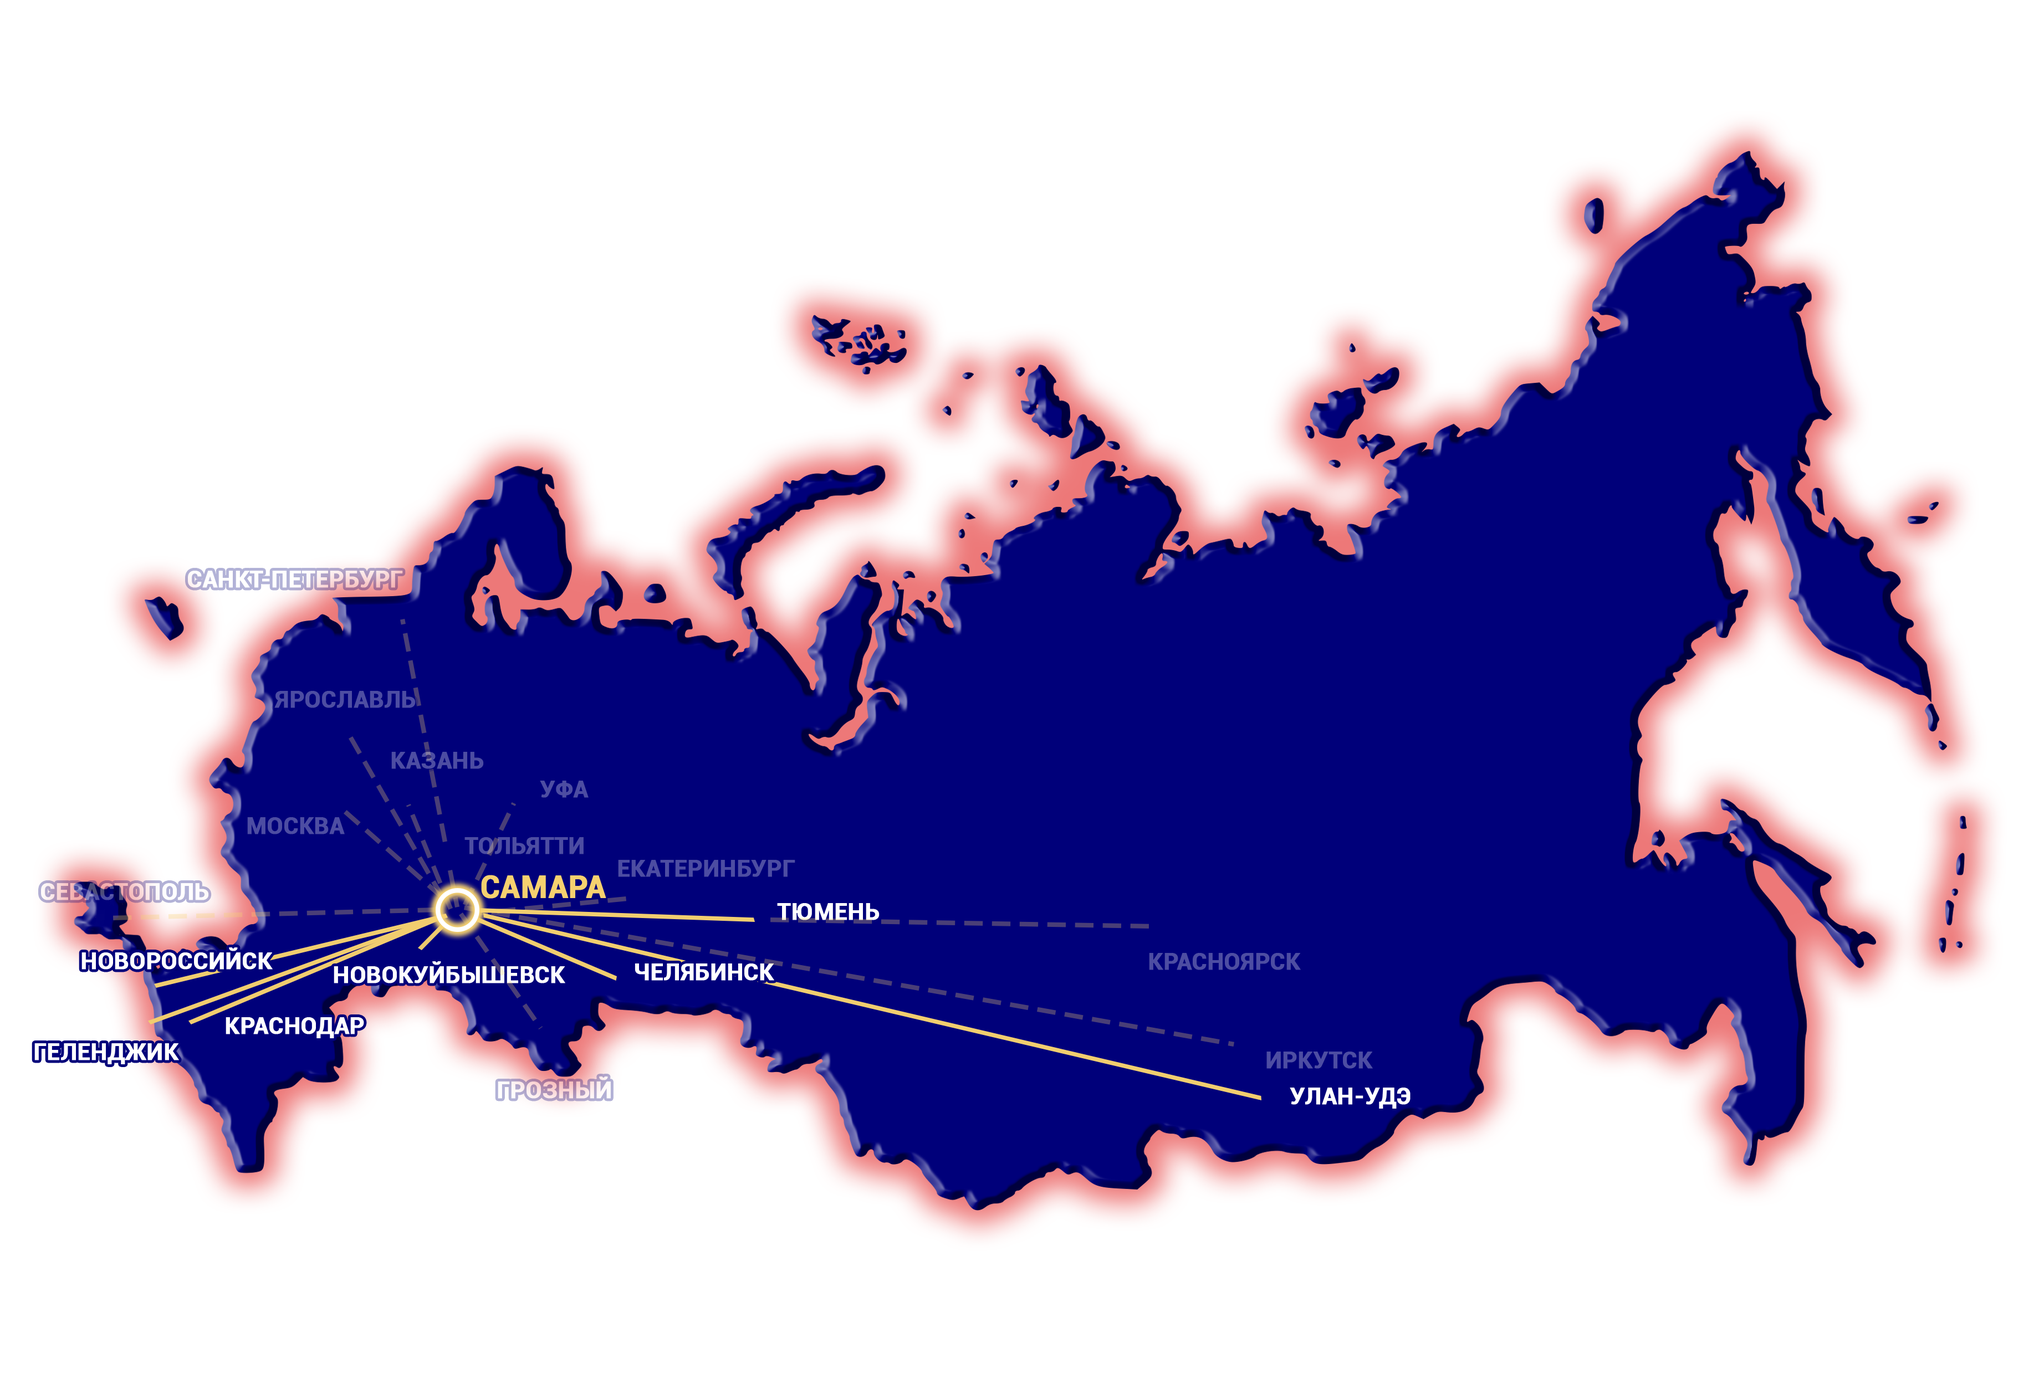
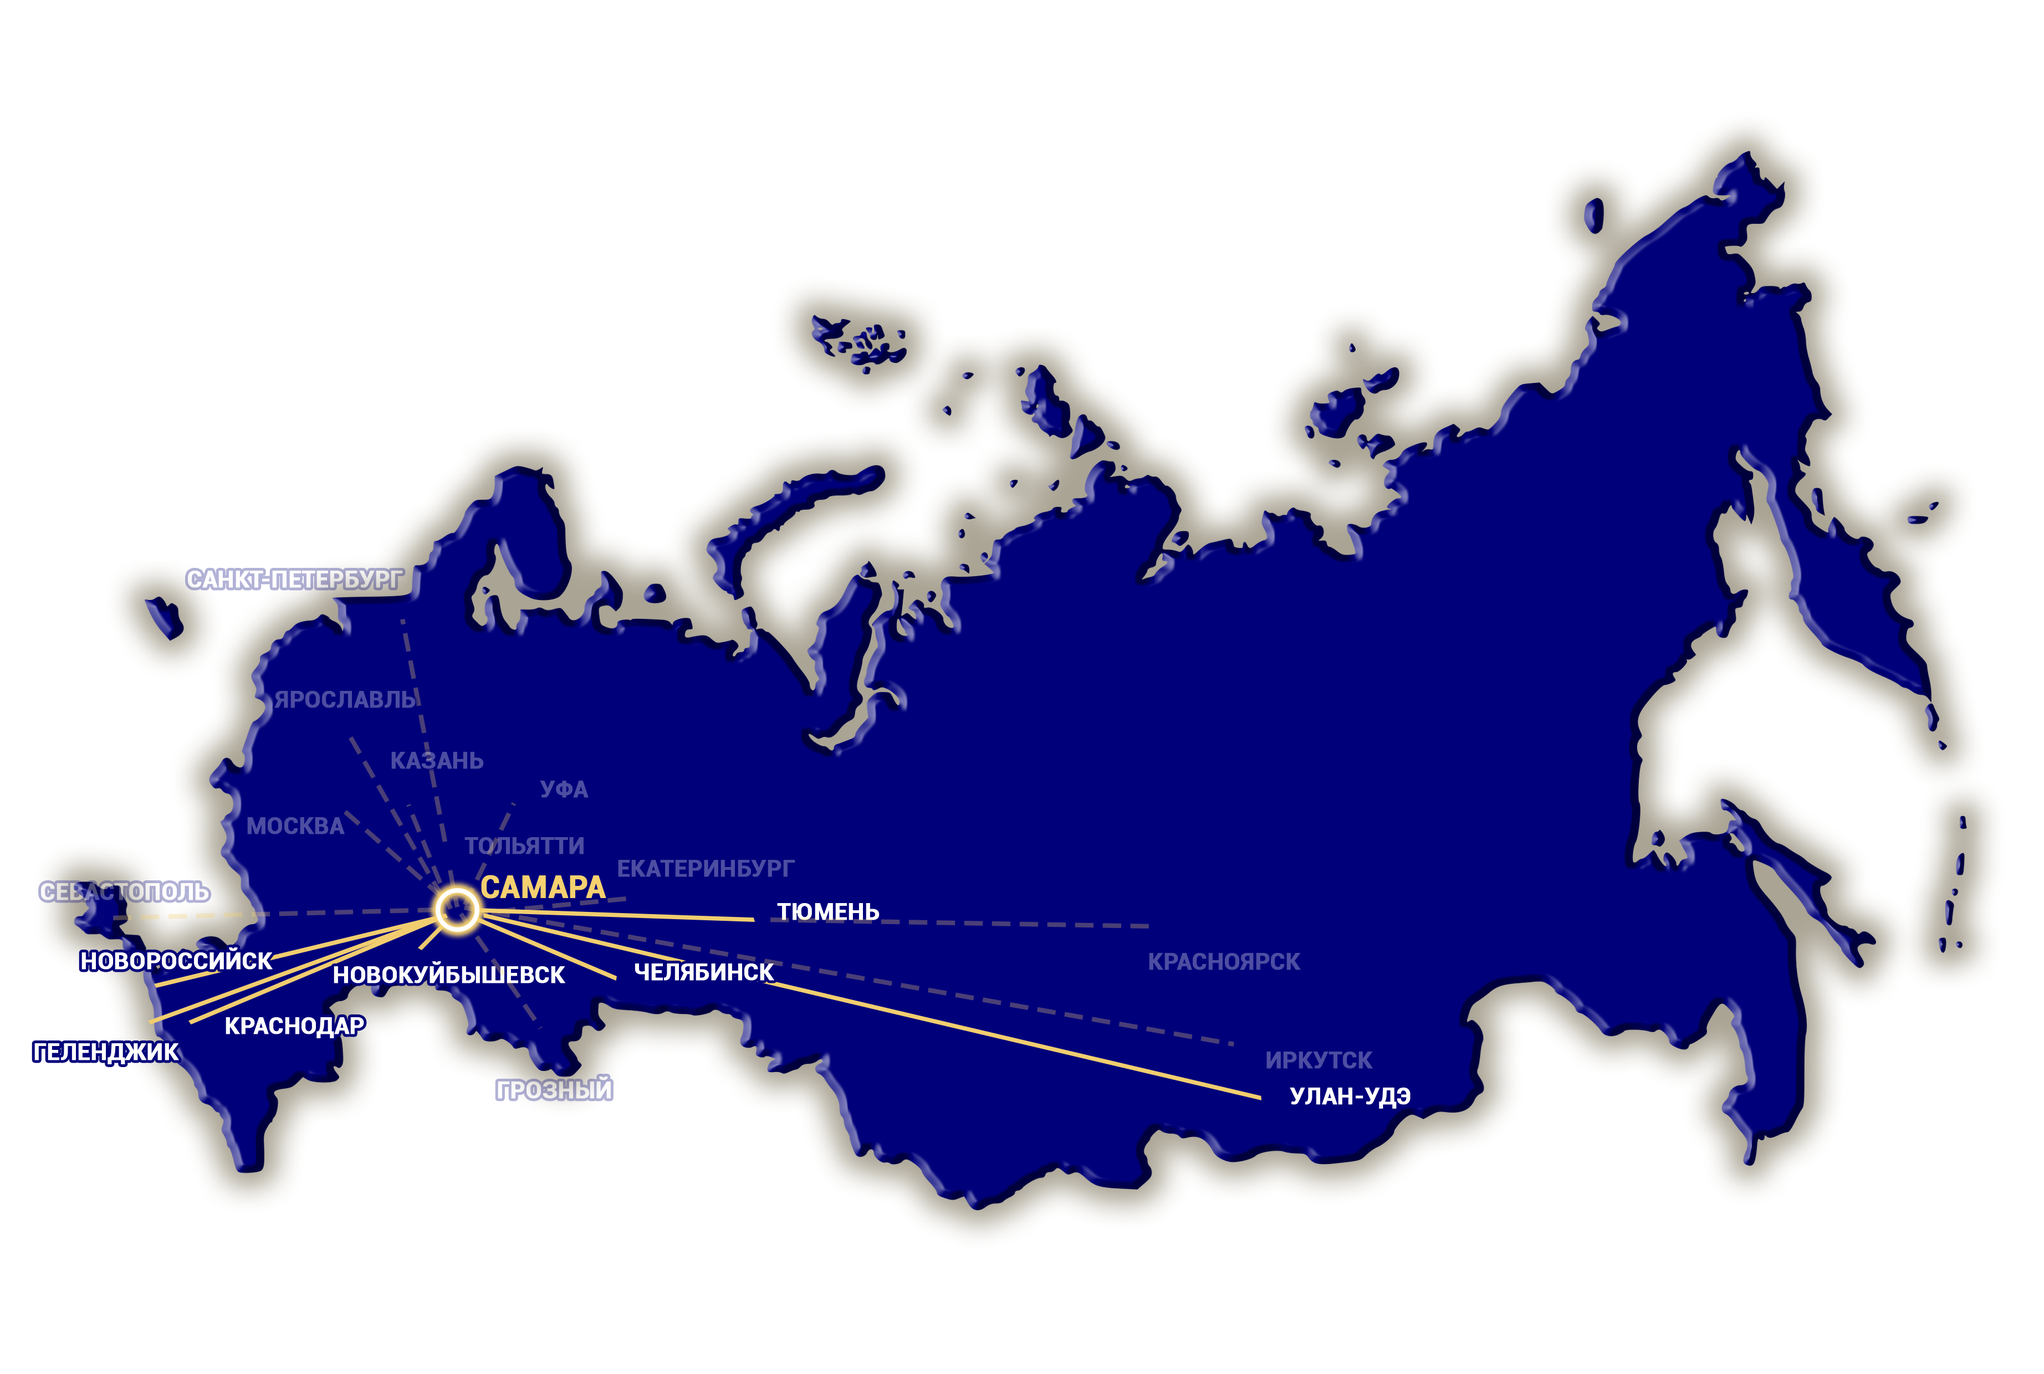
ы

Changed region(s): [[0.0312, 0.0931, 0.9666, 0.8073], [0.4054, 0.4657, 0.9978, 0.9004], [0.0935, 0.7141, 0.4054, 0.8694]]

diff --git a/karta/css/style.min.css b/karta/css/style.min.css
@@ -1,1 +1,1 @@
-*{margin:0;padding:0;-webkit-tap-highlight-color:rgba(0,0,0,0)}.karta,.karta2{margin:0 auto;background:url(../img/Карта1.png);height:500px;position:relative;width:800px;background-repeat:no-repeat;background-position:center;background-size:100%}.karta2__active,.karta__active{width:6px;position:absolute;height:6px;border-radius:50%;border:1px solid #dabd6d;box-shadow:0 0 2px 2px #dabd6d;cursor:pointer;-webkit-animation:boxShadowPulse .9s infinite linear;animation:boxShadowPulse .9s infinite linear;animation-direction:alternate-reverse;background-color:#00007a}.karta2__not-active,.karta__not-active{width:6px;position:absolute;height:6px;border-radius:50%;border:1px solid #b5adf1;box-shadow:0 0 2px 2px #b3addf;background-color:#00007a;cursor:pointer}#tolyati{top:313px;left:21.3%}#tolyati:hover::before{-webkit-animation:pulse 1s;animation:pulse 1s;content:"";width:200px;position:absolute;top:-100px;left:10px;background-image:url(../img/Всплывашка_7.png);background-size:cover;height:100px;z-index:1}.pulse{top:333px;width:3px;position:absolute;height:3px;border-radius:50%;border:1px solid #dabd6d;background-color:#dabd6d;left:175.4px}#samara{top:333px;left:175.4px}#samara:hover::before{-webkit-animation:pulse 1s;animation:pulse 1s;content:"";width:200px;position:absolute;top:-100px;left:10px;z-index:1;background-image:url(../img/Всплывашка_1.png);background-size:cover;height:100px}#chelyabinsk{top:360px;left:236px}#chelyabinsk:hover::before{-webkit-animation:pulses 1s;animation:pulses 1s;content:"";width:210px;position:absolute;top:-100px;z-index:1;left:10px;background-image:url(../img/ВсплывашкаЧелябинск.png);background-size:cover;height:100px}#chelyabinsk:focus::before{-webkit-animation:pulse 1s;animation:pulse 1s;content:"";width:200px;z-index:1;position:absolute;top:-100px;left:10px;background-image:url(../img/Всплывашка_2.png);background-size:cover;height:100px}#newKub{top:348px;left:161px}#newKub:hover::before{-webkit-animation:pulses 1s;animation:pulses 1s;content:"";width:210px;position:absolute;z-index:1;top:-100px;left:10px;background-image:url(../img/ВсплывашкаНовокуйбышевск.png);background-size:cover;height:100px}#newKub:focus::before{-webkit-animation:pulse 1s;animation:pulse 1s;content:"";width:200px;z-index:1;position:absolute;top:-100px;left:10px;background-image:url(../img/Всплывашка_3.png);background-size:cover;height:100px}#newRos{top:363px;box-shadow:0 0 1px 2px #ffdb77;left:56px}#newRos:hover::before{-webkit-animation:pulse 1s;animation:pulse 1s;content:"";width:200px;z-index:1;position:absolute;top:-100px;left:10px;background-image:url(../img/Всплывашка_5.png);background-size:cover;height:100px}#newRos:focus::before{-webkit-animation:pulse 1s;animation:pulse 1s;content:"";width:200px;position:absolute;top:-100px;z-index:1;left:10px;background-image:url(../img/Всплывашка_5.png);background-size:cover;height:100px}#gelendgik{top:377px;box-shadow:0 0 1px 2px #ffdb77;left:55px}#gelendgik:hover::before{-webkit-animation:pulses 1s;animation:pulses 1s;content:"";width:210px;z-index:1;position:absolute;top:-100px;left:10px;background-image:url(../img/ВсплывашкаГеленджик.png);background-size:cover;height:100px}#gelendgik:focus::before{-webkit-animation:pulse 1s;animation:pulse 1s;content:"";width:200px;position:absolute;top:-100px;z-index:1;left:10px;background-image:url(../img/ВсплывашкаГеленджик.png);background-size:cover;height:100px}#krasnodar{top:376px;box-shadow:0 0 1px 2px #ffdb77;left:74px}#krasnodar:hover::before{-webkit-animation:pulses 1s;animation:pulses 1s;content:"";width:210px;position:absolute;z-index:1;top:-100px;left:10px;background-image:url(../img/ВсплывашкаКраснодар.png);background-size:cover;height:100px}#krasnodar:focus::before{-webkit-animation:pulse 1s;animation:pulse 1s;content:"";width:200px;position:absolute;top:-100px;z-index:1;left:10px;background-image:url(../img/ВсплывашкаКраснодар.png);background-size:cover;height:100px}#tumen{top:337px;left:292px}#tumen:hover::before{-webkit-animation:pulses 1s;animation:pulses 1s;content:"";width:210px;position:absolute;z-index:1;top:-100px;left:10px;background-image:url(../img/ВсплывашкаТюмень.png);background-size:cover;height:100px}#ulan{top:406px;left:491px}#ulan:hover::before{-webkit-animation:pulses 1s;animation:pulses 1s;content:"";width:210px;z-index:1;position:absolute;top:-100px;left:10px;background-image:url(../img/ВсплывашкаУлан-Удэ.png);background-size:cover;height:100px}#moscow{top:289px;left:126px}#moscow:hover::before{-webkit-animation:pulse 1s;animation:pulse 1s;content:"";z-index:1;width:200px;position:absolute;top:-100px;left:10px;background-image:url(../img/Всплывашка_6.png);background-size:cover;height:100px}#ekaterenburg{top:328px;left:249px}#ekaterenburg:hover::before{-webkit-animation:pulse 1s;animation:pulse 1s;content:"";width:200px;position:absolute;top:-100px;left:10px;background-image:url(../img/Всплывашка_7.png);background-size:cover;height:100px;z-index:1}#sevastopol{top:336px;left:30px}#sevastopol:hover::before{-webkit-animation:pulse 1s;animation:pulse 1s;content:"";width:200px;position:absolute;top:-100px;left:10px;background-image:url(../img/Всплывашка_7.png);background-size:cover;height:100px;z-index:1}#yaroslavl{top:261px;left:130px}#yaroslavl:hover::before{-webkit-animation:pulse 1s;animation:pulse 1s;content:"";width:200px;position:absolute;top:-100px;left:10px;background-image:url(../img/Всплывашка_7.png);background-size:cover;height:100px;z-index:1}#kazan{top:287px;left:153px}#kazan:hover::before{-webkit-animation:pulse 1s;animation:pulse 1s;content:"";width:200px;position:absolute;top:-100px;left:10px;background-image:url(../img/Всплывашка_7.png);background-size:cover;height:100px;z-index:1}#ufa{top:286px;left:199px}#ufa:hover::before{-webkit-animation:pulse 1s;animation:pulse 1s;content:"";width:200px;position:absolute;top:-100px;left:10px;background-image:url(../img/Всплывашка_7.png);background-size:cover;height:100px;z-index:1}#krasnoyarsk{top:339px;left:450px}#krasnoyarsk:hover::before{-webkit-animation:pulse 1s;animation:pulse 1s;content:"";width:200px;position:absolute;top:-100px;left:10px;background-image:url(../img/Всплывашка_7.png);background-size:cover;height:100px;z-index:1}#irkutsk{top:386px;left:483.5px}#irkutsk:hover::before{-webkit-animation:pulse 1s;animation:pulse 1s;content:"";width:200px;position:absolute;top:-100px;left:10px;background-image:url(../img/Всплывашка_7.png);background-size:cover;height:100px;z-index:1}#grosniy{top:385px;left:212px}#grosniy:hover::before{-webkit-animation:pulse 1s;animation:pulse 1s;content:"";width:200px;position:absolute;top:-100px;left:10px;background-image:url(../img/Всплывашка_7.png);background-size:cover;height:100px;z-index:1}#peterburg{top:214px;left:152px}#peterburg:hover::before{-webkit-animation:pulse 1s;animation:pulse 1s;content:"";width:200px;position:absolute;top:-100px;left:10px;background-image:url(../img/Всплывашка_7.png);background-size:cover;height:100px;z-index:1}@-webkit-keyframes pulse{0%{width:0}100%{width:200px}}@keyframes pulse{0%{width:0}100%{width:200px}}@-webkit-keyframes boxShadowPulse{0%{box-shadow:0 0 2px 2px #dabd6d}75%{box-shadow:0 0 2px 2px #dabd6d}100%{box-shadow:0 0 3px 5px #dabd6d}}@keyframes boxShadowPulse{0%{box-shadow:0 0 2px 2px #dabd6d}75%{box-shadow:0 0 2px 2px #dabd6d}100%{box-shadow:0 0 3px 5px #dabd6d}}
+*{margin:0;padding:0;-webkit-tap-highlight-color:rgba(0,0,0,0)}.karta,.karta2{margin:0 auto;background:url(../img/Карта1.png);height:500px;position:relative;width:800px;background-repeat:no-repeat;background-position:center;background-size:100%}.karta2__active,.karta__active{width:6px;position:absolute;height:6px;border-radius:50%;border:1px solid #dabd6d;box-shadow:0 0 2px 2px #dabd6d;cursor:pointer;-webkit-animation:boxShadowPulse .9s infinite linear;animation:boxShadowPulse .9s infinite linear;animation-direction:alternate-reverse;background-color:#00007a}.karta2__not-active,.karta__not-active{width:6px;position:absolute;height:6px;border-radius:50%;border:1px solid #b5adf1;box-shadow:0 0 2px 2px #b3addf;background-color:#00007a;cursor:pointer}#tolyati{top:313px;left:21.3%}#tolyati:hover::before{-webkit-animation:pulse 1s;animation:pulse 1s;content:"";width:200px;position:absolute;top:-100px;left:10px;background-image:url(../img/Всплывашка_7.png);background-size:cover;height:100px;z-index:1}.pulse{top:333px;width:3px;position:absolute;height:3px;border-radius:50%;border:1px solid #dabd6d;background-color:#dabd6d;left:175.4px}#samara{top:333px;left:175.4px}#samara:hover::before{-webkit-animation:pulse 1s;animation:pulse 1s;content:"";width:200px;position:absolute;top:-100px;left:10px;z-index:1;background-image:url(../img/Всплывашка_1.png);background-size:cover;height:100px}#chelyabinsk{top:360px;left:236px}#chelyabinsk:hover::before{-webkit-animation:pulses 1s;animation:pulses 1s;content:"";width:210px;position:absolute;top:-100px;z-index:1;left:10px;background-image:url(../img/ВсплывашкаЧелябинск.png);background-size:cover;height:100px}#chelyabinsk:focus::before{-webkit-animation:pulse 1s;animation:pulse 1s;content:"";width:200px;z-index:1;position:absolute;top:-100px;left:10px;background-image:url(../img/Всплывашка_2.png);background-size:cover;height:100px}#newKub{top:348px;left:161px}#newKub:hover::before{-webkit-animation:pulses 1s;animation:pulses 1s;content:"";width:210px;position:absolute;z-index:1;top:-100px;left:10px;background-image:url(../img/ВсплывашкаНовокуйбышевск.png);background-size:cover;height:100px}#newKub:focus::before{-webkit-animation:pulse 1s;animation:pulse 1s;content:"";width:200px;z-index:1;position:absolute;top:-100px;left:10px;background-image:url(../img/Всплывашка_3.png);background-size:cover;height:100px}#newRos{top:363px;box-shadow:0 0 1px 2px #ffdb77;left:56px}#newRos:hover::before{-webkit-animation:pulse 1s;animation:pulse 1s;content:"";width:200px;z-index:1;position:absolute;top:-100px;left:10px;background-image:url(../img/Всплывашка_5.png);background-size:cover;height:100px}#newRos:focus::before{-webkit-animation:pulse 1s;animation:pulse 1s;content:"";width:200px;position:absolute;top:-100px;z-index:1;left:10px;background-image:url(../img/Всплывашка_5.png);background-size:cover;height:100px}#gelendgik{top:377px;box-shadow:0 0 1px 2px #ffdb77;left:55px}#gelendgik:hover::before{-webkit-animation:pulses 1s;animation:pulses 1s;content:"";width:210px;z-index:1;position:absolute;top:-100px;left:10px;background-image:url(../img/ВсплывашкаГеленджик.png);background-size:cover;height:100px}#gelendgik:focus::before{-webkit-animation:pulse 1s;animation:pulse 1s;content:"";width:200px;position:absolute;top:-100px;z-index:1;left:10px;background-image:url(../img/ВсплывашкаГеленджик.png);background-size:cover;height:100px}#krasnodar{top:376px;box-shadow:0 0 1px 2px #ffdb77;left:74px}#krasnodar:hover::before{-webkit-animation:pulses 1s;animation:pulses 1s;content:"";width:210px;position:absolute;z-index:1;top:-100px;left:10px;background-image:url(../img/ВсплывашкаКраснодар.png);background-size:cover;height:100px}#krasnodar:focus::before{-webkit-animation:pulse 1s;animation:pulse 1s;content:"";width:200px;position:absolute;top:-100px;z-index:1;left:10px;background-image:url(../img/ВсплывашкаКраснодар.png);background-size:cover;height:100px}#tumen{top:337px;left:292px}#tumen:hover::before{-webkit-animation:pulses 1s;animation:pulses 1s;content:"";width:210px;position:absolute;z-index:1;top:-100px;left:10px;background-image:url(../img/Всплывашка_7.png);background-size:cover;height:100px}#ulan{top:406px;left:491px}#ulan:hover::before{-webkit-animation:pulse 1s;animation:pulse 1s;content:"";width:200px;position:absolute;top:-100px;left:10px;background-image:url(../img/Всплывашка_7.png);background-size:cover;height:100px;z-index:1}#moscow{top:289px;left:126px}#moscow:hover::before{-webkit-animation:pulse 1s;animation:pulse 1s;content:"";z-index:1;width:200px;position:absolute;top:-100px;left:10px;background-image:url(../img/Всплывашка_6.png);background-size:cover;height:100px}#ekaterenburg{top:328px;left:249px}#ekaterenburg:hover::before{-webkit-animation:pulse 1s;animation:pulse 1s;content:"";width:200px;position:absolute;top:-100px;left:10px;background-image:url(../img/Всплывашка_7.png);background-size:cover;height:100px;z-index:1}#sevastopol{top:336px;left:30px}#sevastopol:hover::before{-webkit-animation:pulse 1s;animation:pulse 1s;content:"";width:200px;position:absolute;top:-100px;left:10px;background-image:url(../img/Всплывашка_7.png);background-size:cover;height:100px;z-index:1}#yaroslavl{top:261px;left:130px}#yaroslavl:hover::before{-webkit-animation:pulse 1s;animation:pulse 1s;content:"";width:200px;position:absolute;top:-100px;left:10px;background-image:url(../img/Всплывашка_7.png);background-size:cover;height:100px;z-index:1}#kazan{top:287px;left:153px}#kazan:hover::before{-webkit-animation:pulse 1s;animation:pulse 1s;content:"";width:200px;position:absolute;top:-100px;left:10px;background-image:url(../img/Всплывашка_7.png);background-size:cover;height:100px;z-index:1}#ufa{top:286px;left:199px}#ufa:hover::before{-webkit-animation:pulse 1s;animation:pulse 1s;content:"";width:200px;position:absolute;top:-100px;left:10px;background-image:url(../img/Всплывашка_7.png);background-size:cover;height:100px;z-index:1}#krasnoyarsk{top:339px;left:450px}#krasnoyarsk:hover::before{-webkit-animation:pulse 1s;animation:pulse 1s;content:"";width:200px;position:absolute;top:-100px;left:10px;background-image:url(../img/Всплывашка_7.png);background-size:cover;height:100px;z-index:1}#irkutsk{top:386px;left:483.5px}#irkutsk:hover::before{-webkit-animation:pulse 1s;animation:pulse 1s;content:"";width:200px;position:absolute;top:-100px;left:10px;background-image:url(../img/Всплывашка_7.png);background-size:cover;height:100px;z-index:1}#grosniy{top:385px;left:212px}#grosniy:hover::before{-webkit-animation:pulse 1s;animation:pulse 1s;content:"";width:200px;position:absolute;top:-100px;left:10px;background-image:url(../img/Всплывашка_7.png);background-size:cover;height:100px;z-index:1}#peterburg{top:214px;left:152px}#peterburg:hover::before{-webkit-animation:pulse 1s;animation:pulse 1s;content:"";width:200px;position:absolute;top:-100px;left:10px;background-image:url(../img/Всплывашка_7.png);background-size:cover;height:100px;z-index:1}@-webkit-keyframes pulse{0%{width:0}100%{width:200px}}@keyframes pulse{0%{width:0}100%{width:200px}}@-webkit-keyframes boxShadowPulse{0%{box-shadow:0 0 2px 2px #dabd6d}75%{box-shadow:0 0 2px 2px #dabd6d}100%{box-shadow:0 0 3px 5px #dabd6d}}@keyframes boxShadowPulse{0%{box-shadow:0 0 2px 2px #dabd6d}75%{box-shadow:0 0 2px 2px #dabd6d}100%{box-shadow:0 0 3px 5px #dabd6d}}

diff --git a/karta/sass/style.sass b/karta/sass/style.sass
@@ -226,24 +226,13 @@
             z-index: 1
             top: -100px
             left: 10px
-            background-image: url(../img/ВсплывашкаТюмень.png)
+            background-image: url(../img/Всплывашка_7.png)
             background-size: cover
             height: 100px
 #ulan
     top: 406px
     left: 491px
-    &:hover
-        &::before
-            animation: pulses 1s
-            content: ""
-            width: 210px
-            z-index: 1
-            position: absolute
-            top: -100px
-            left: 10px
-            background-image: url(../img/ВсплывашкаУлан-Удэ.png)
-            background-size: cover
-            height: 100px
+    +hovers()
 #moscow
     top: 289px
     left: 126px

diff --git a/karta/index.html b/karta/index.html
@@ -22,7 +22,7 @@
         <div id="newRos" class="karta__active"></div>
         <div id="gelendgik" class="karta__active"></div>
         <div id="krasnodar" class="karta__active"></div>
-        <div id="tumen" class="karta__active"></div>
+        <div id="tumen" class="karta__not-active"></div>
         <div id="ulan" class="karta__active"></div>
         <div id="moscow" class="karta__not-active"></div>
         <div id="ekaterenburg" class="karta__not-active"></div>
